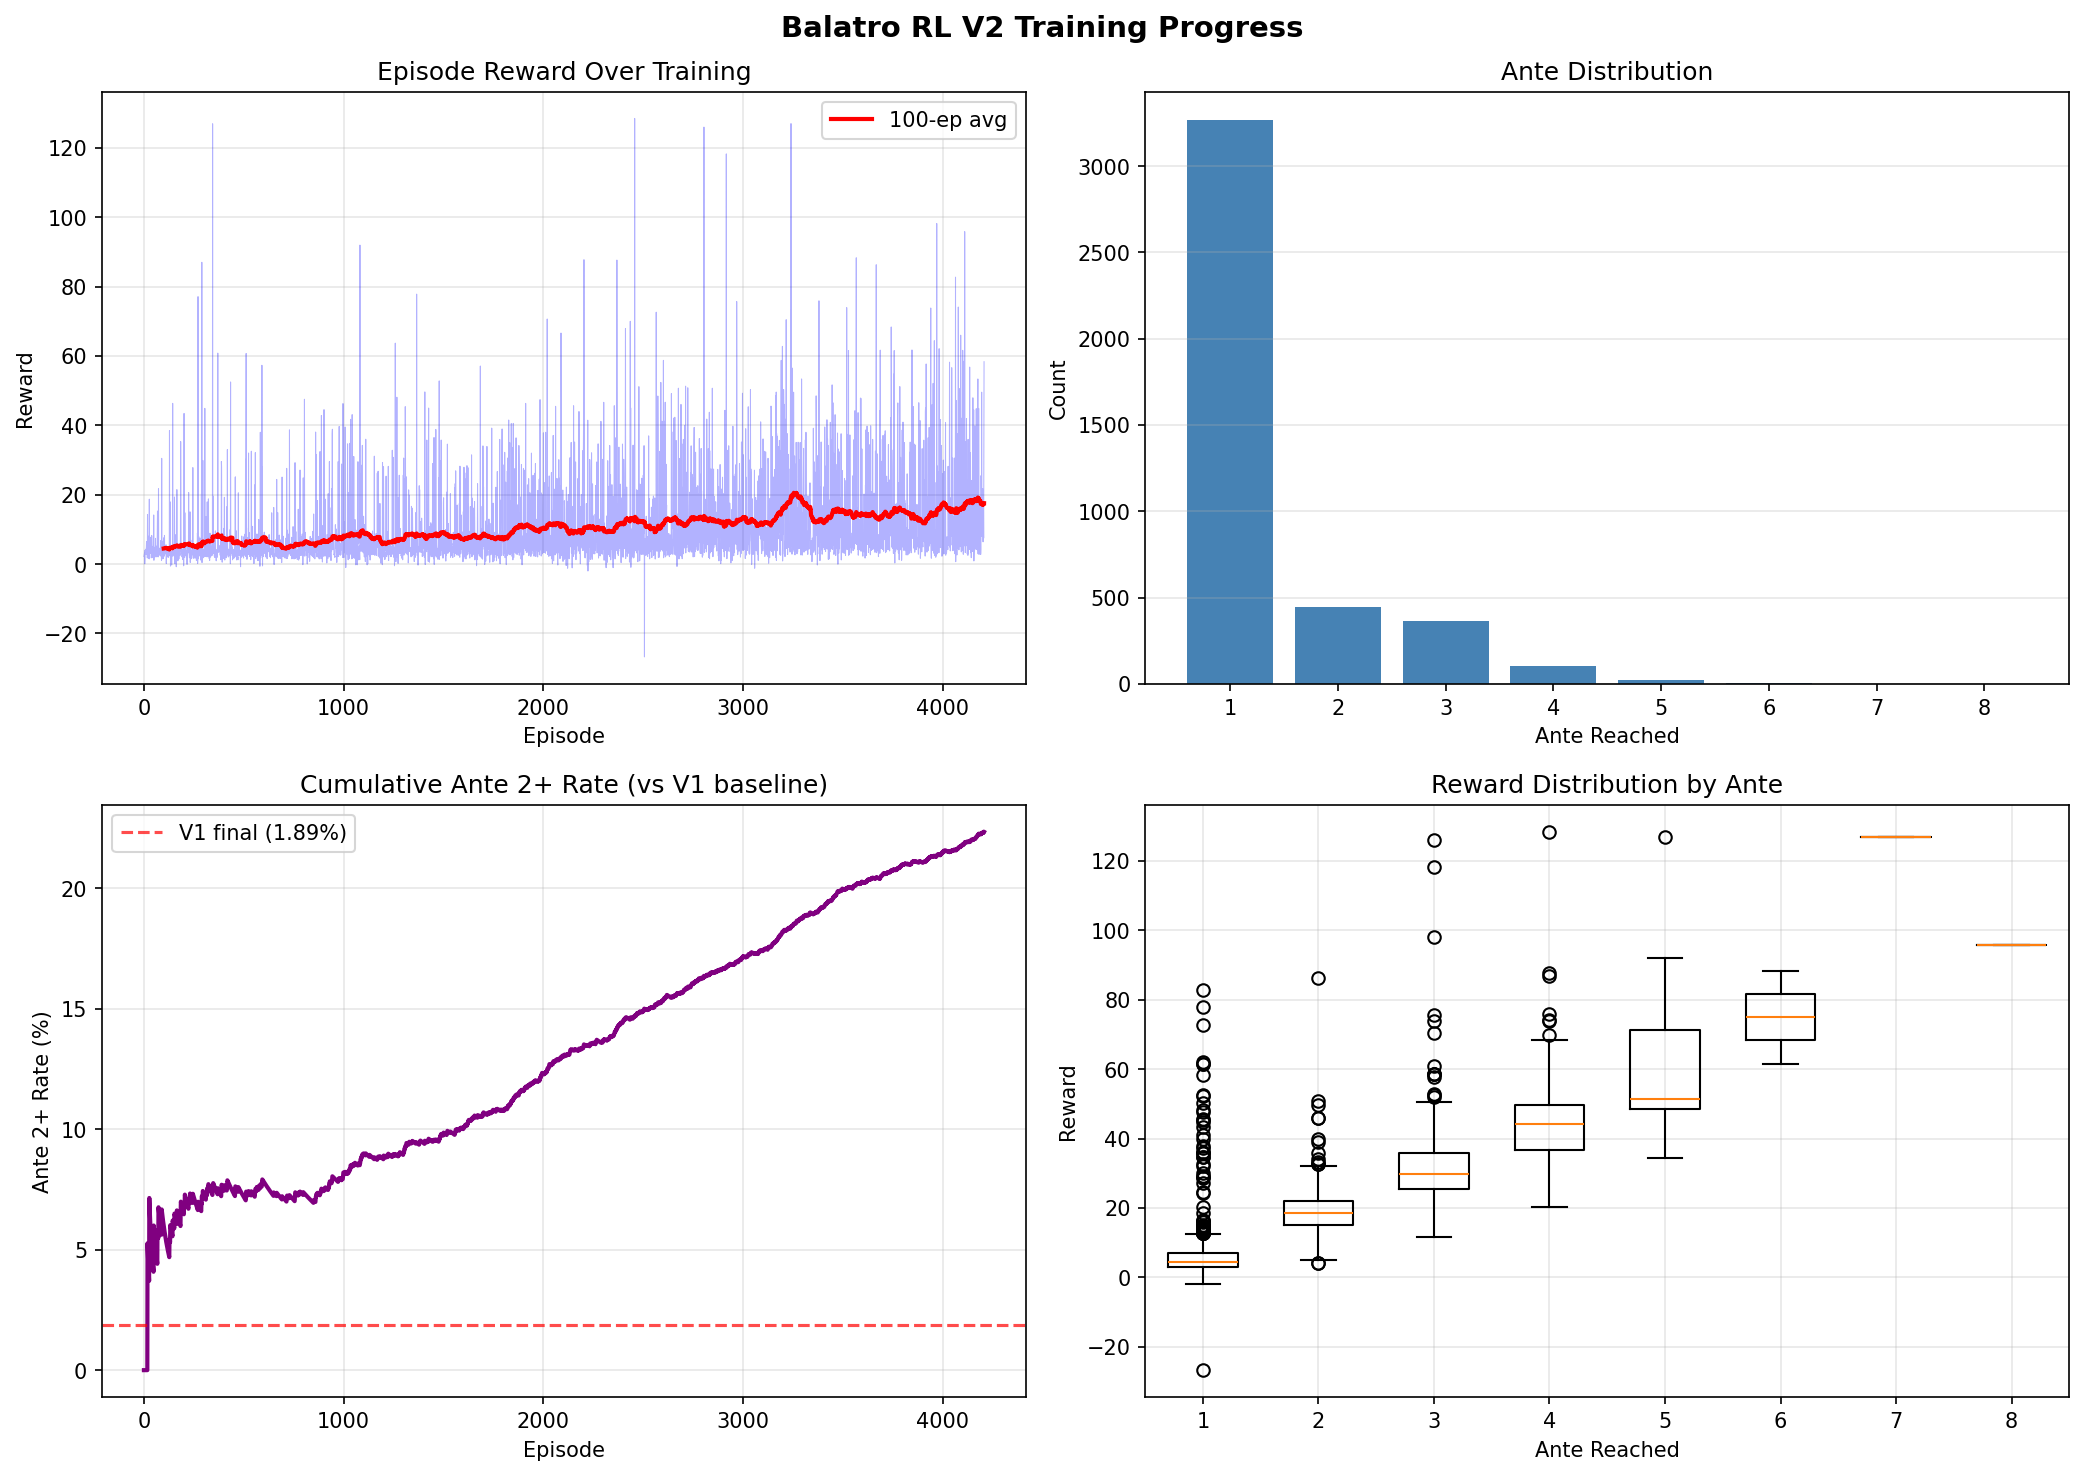
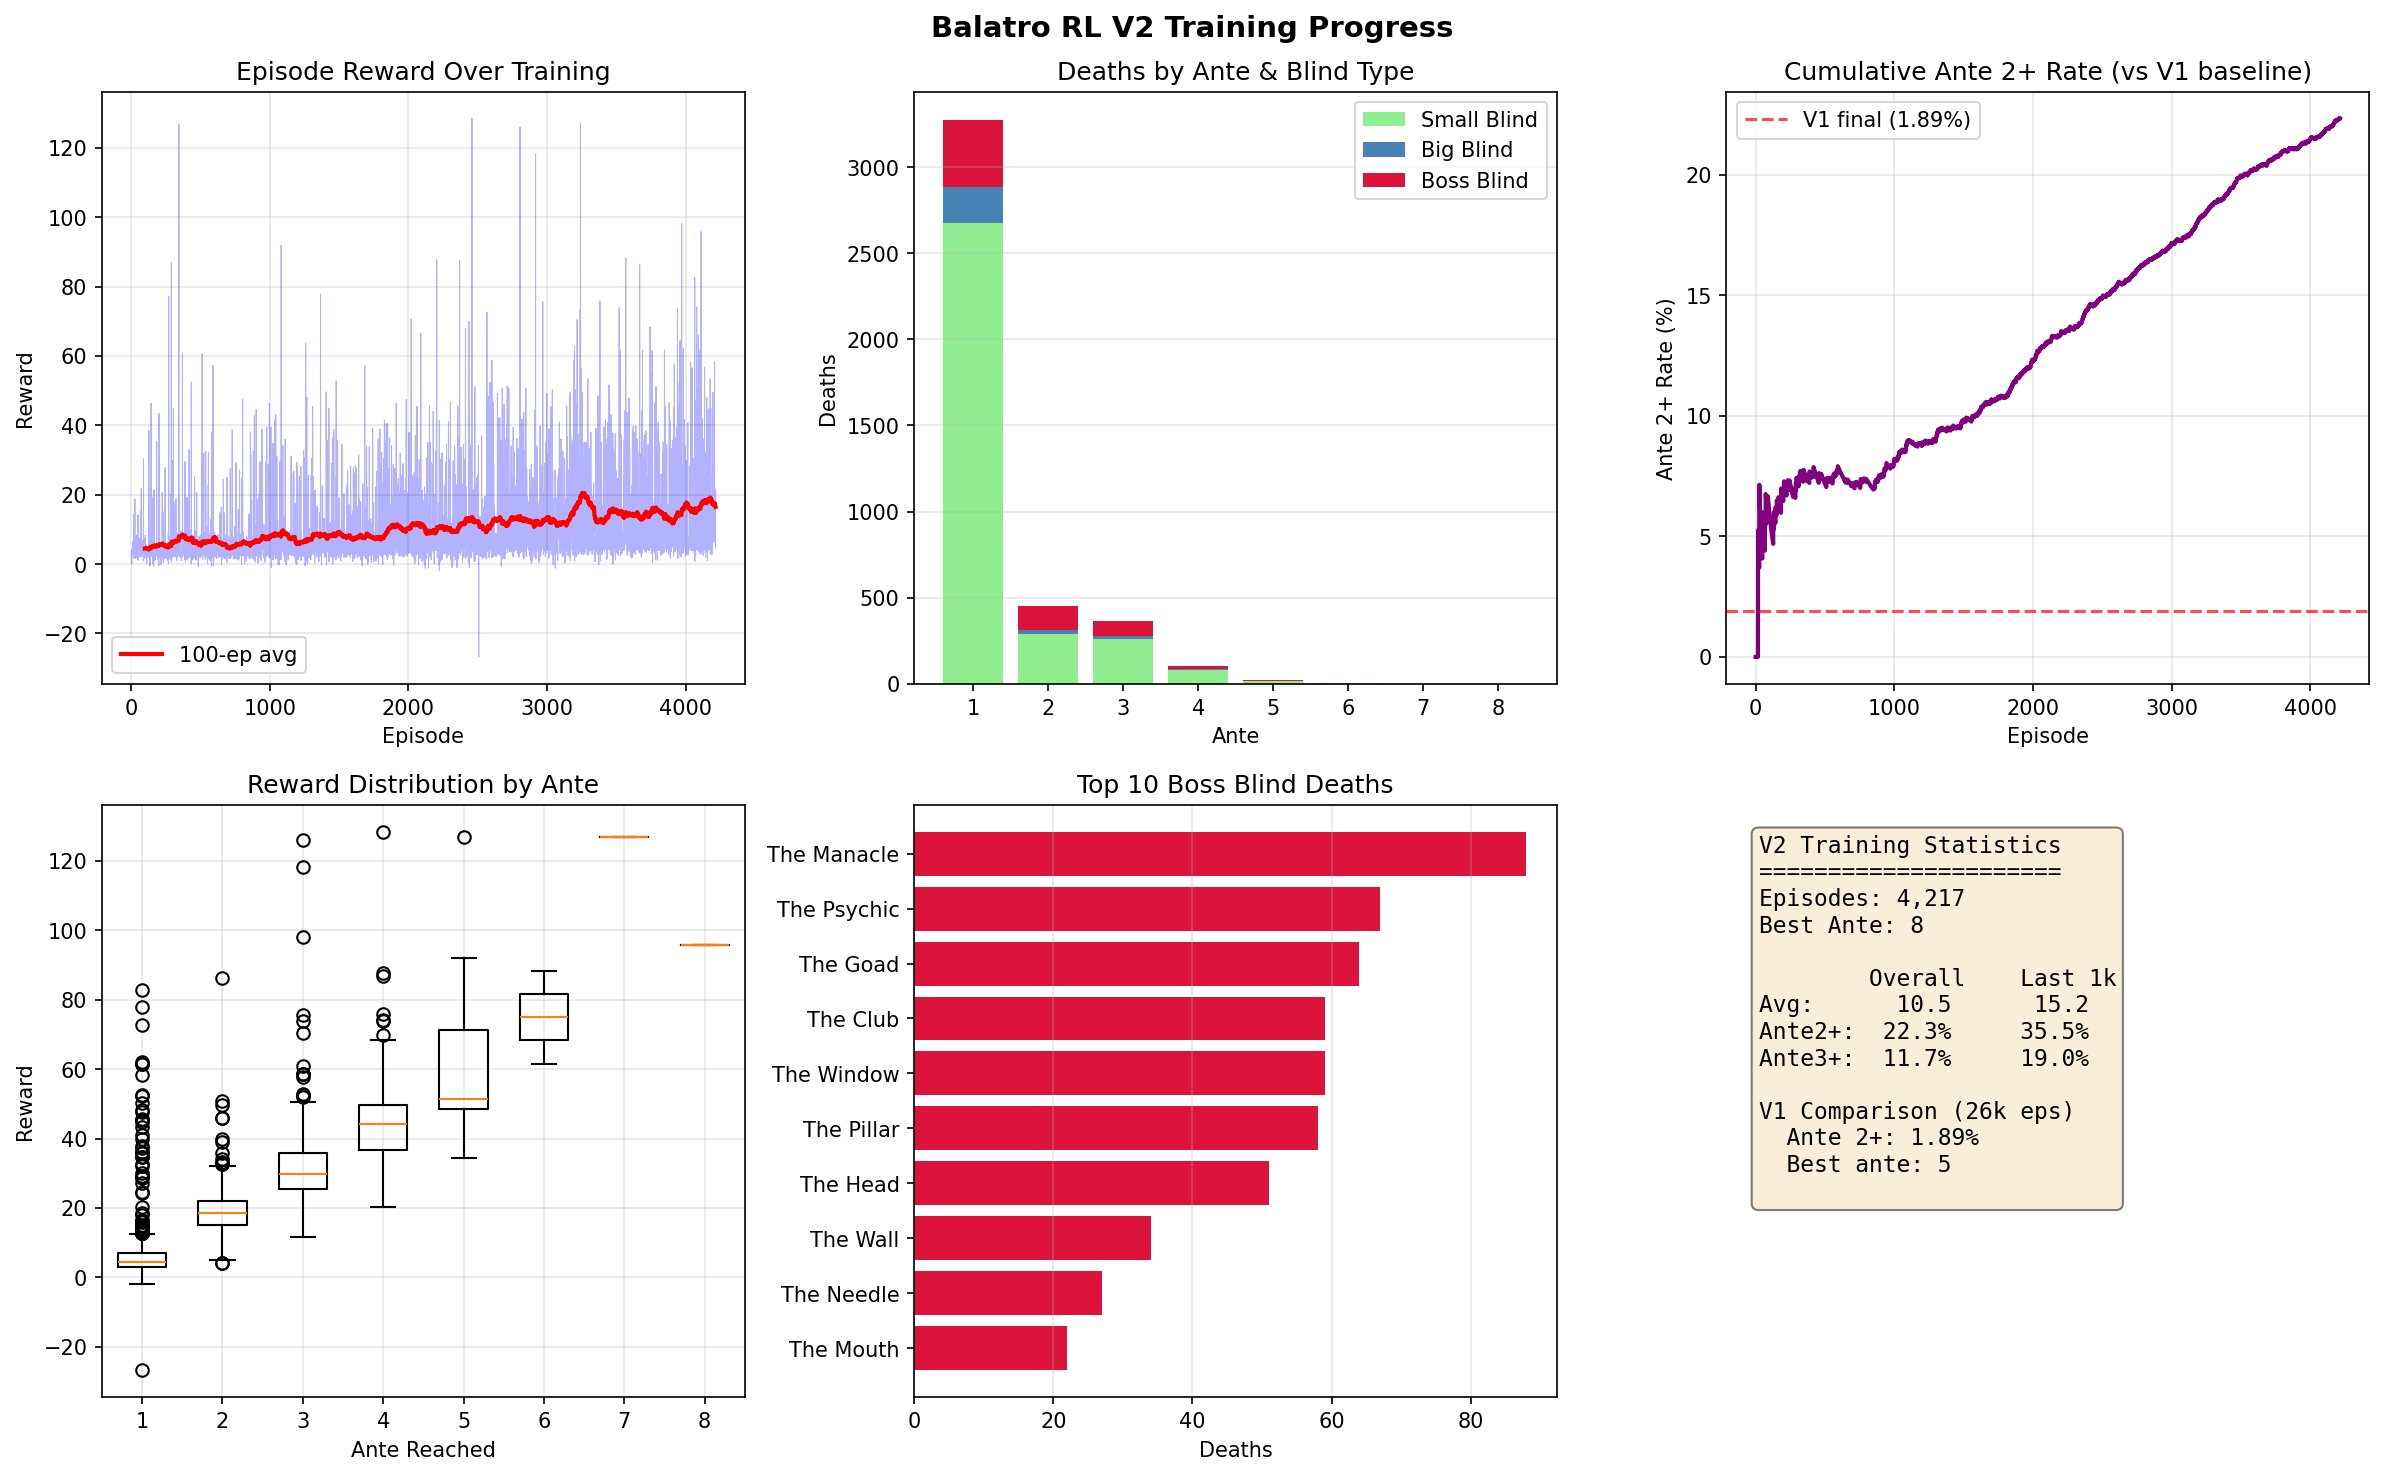
Update V2 results: best ante 8, add last 1k column, blind distribution plot
- Best ante now 8 (was 7)
- Last 1k eps: 35.5% ante2+, 19.0% ante3+, avg reward 15.2
- Plot now includes deaths by ante & blind type

diff --git a/README.md b/README.md
@@ -159,13 +159,13 @@ V2 addresses V1's ceiling with pre-ranked play/discard options:
 - MaskablePPO from sb3-contrib for action masking
 - Discard reward based on Δ best_play_score
 
-| Metric | V2 (4,200 eps) | V1 (26,400 eps) |
-|--------|----------------|-----------------|
-| Avg reward | **10.5** | 1.61 |
-| Max reward | **128.4** | 62.7 |
-| Ante 2+ rate | **22.3%** | 1.89% |
-| Ante 3+ rate | **12.8%** | 0.67% |
-| Best ante | **7** | 5 |
+| Metric | V2 Last 1k | V2 Overall (4,200 eps) | V1 (26,400 eps) |
+|--------|------------|------------------------|-----------------|
+| Avg reward | **15.2** | 10.5 | 1.61 |
+| Max reward | 127.0 | **128.4** | 62.7 |
+| Ante 2+ rate | **35.5%** | 22.3% | 1.89% |
+| Ante 3+ rate | **19.0%** | 11.7% | 0.67% |
+| Best ante | **8** | **8** | 5 |
 
 **V2 is 10× better than V1 with 1/6th the training episodes.**
 
